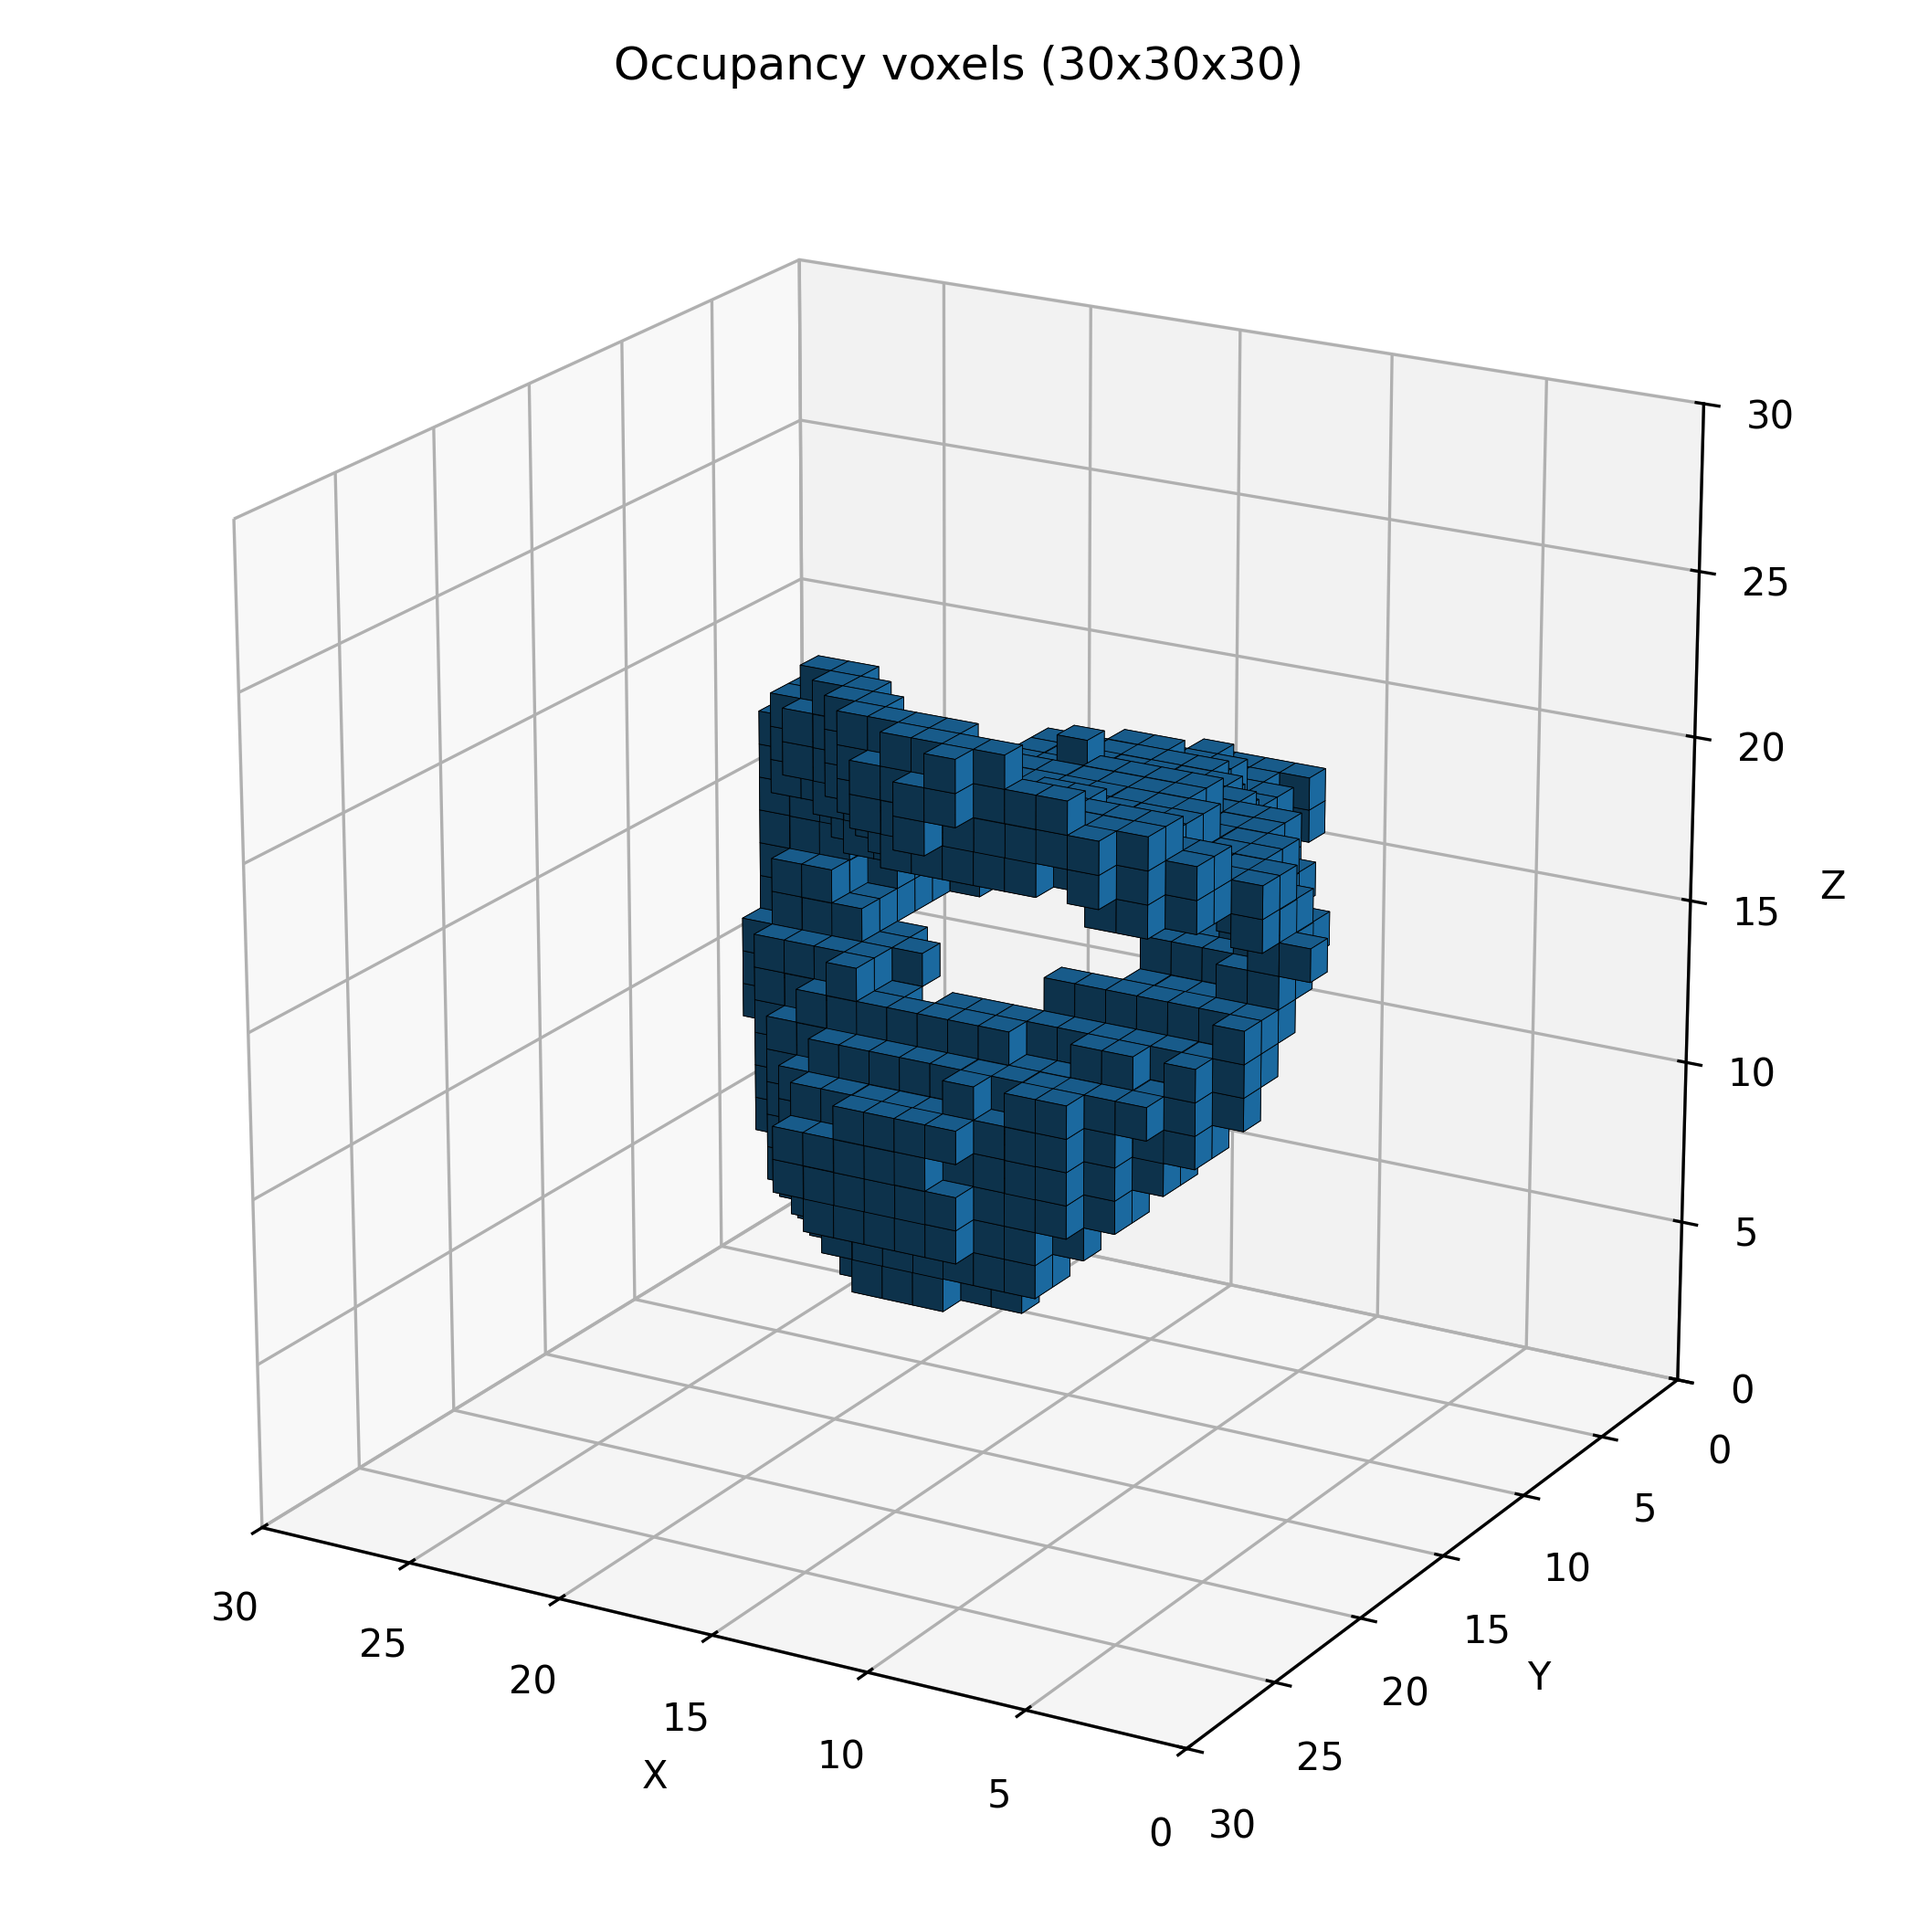
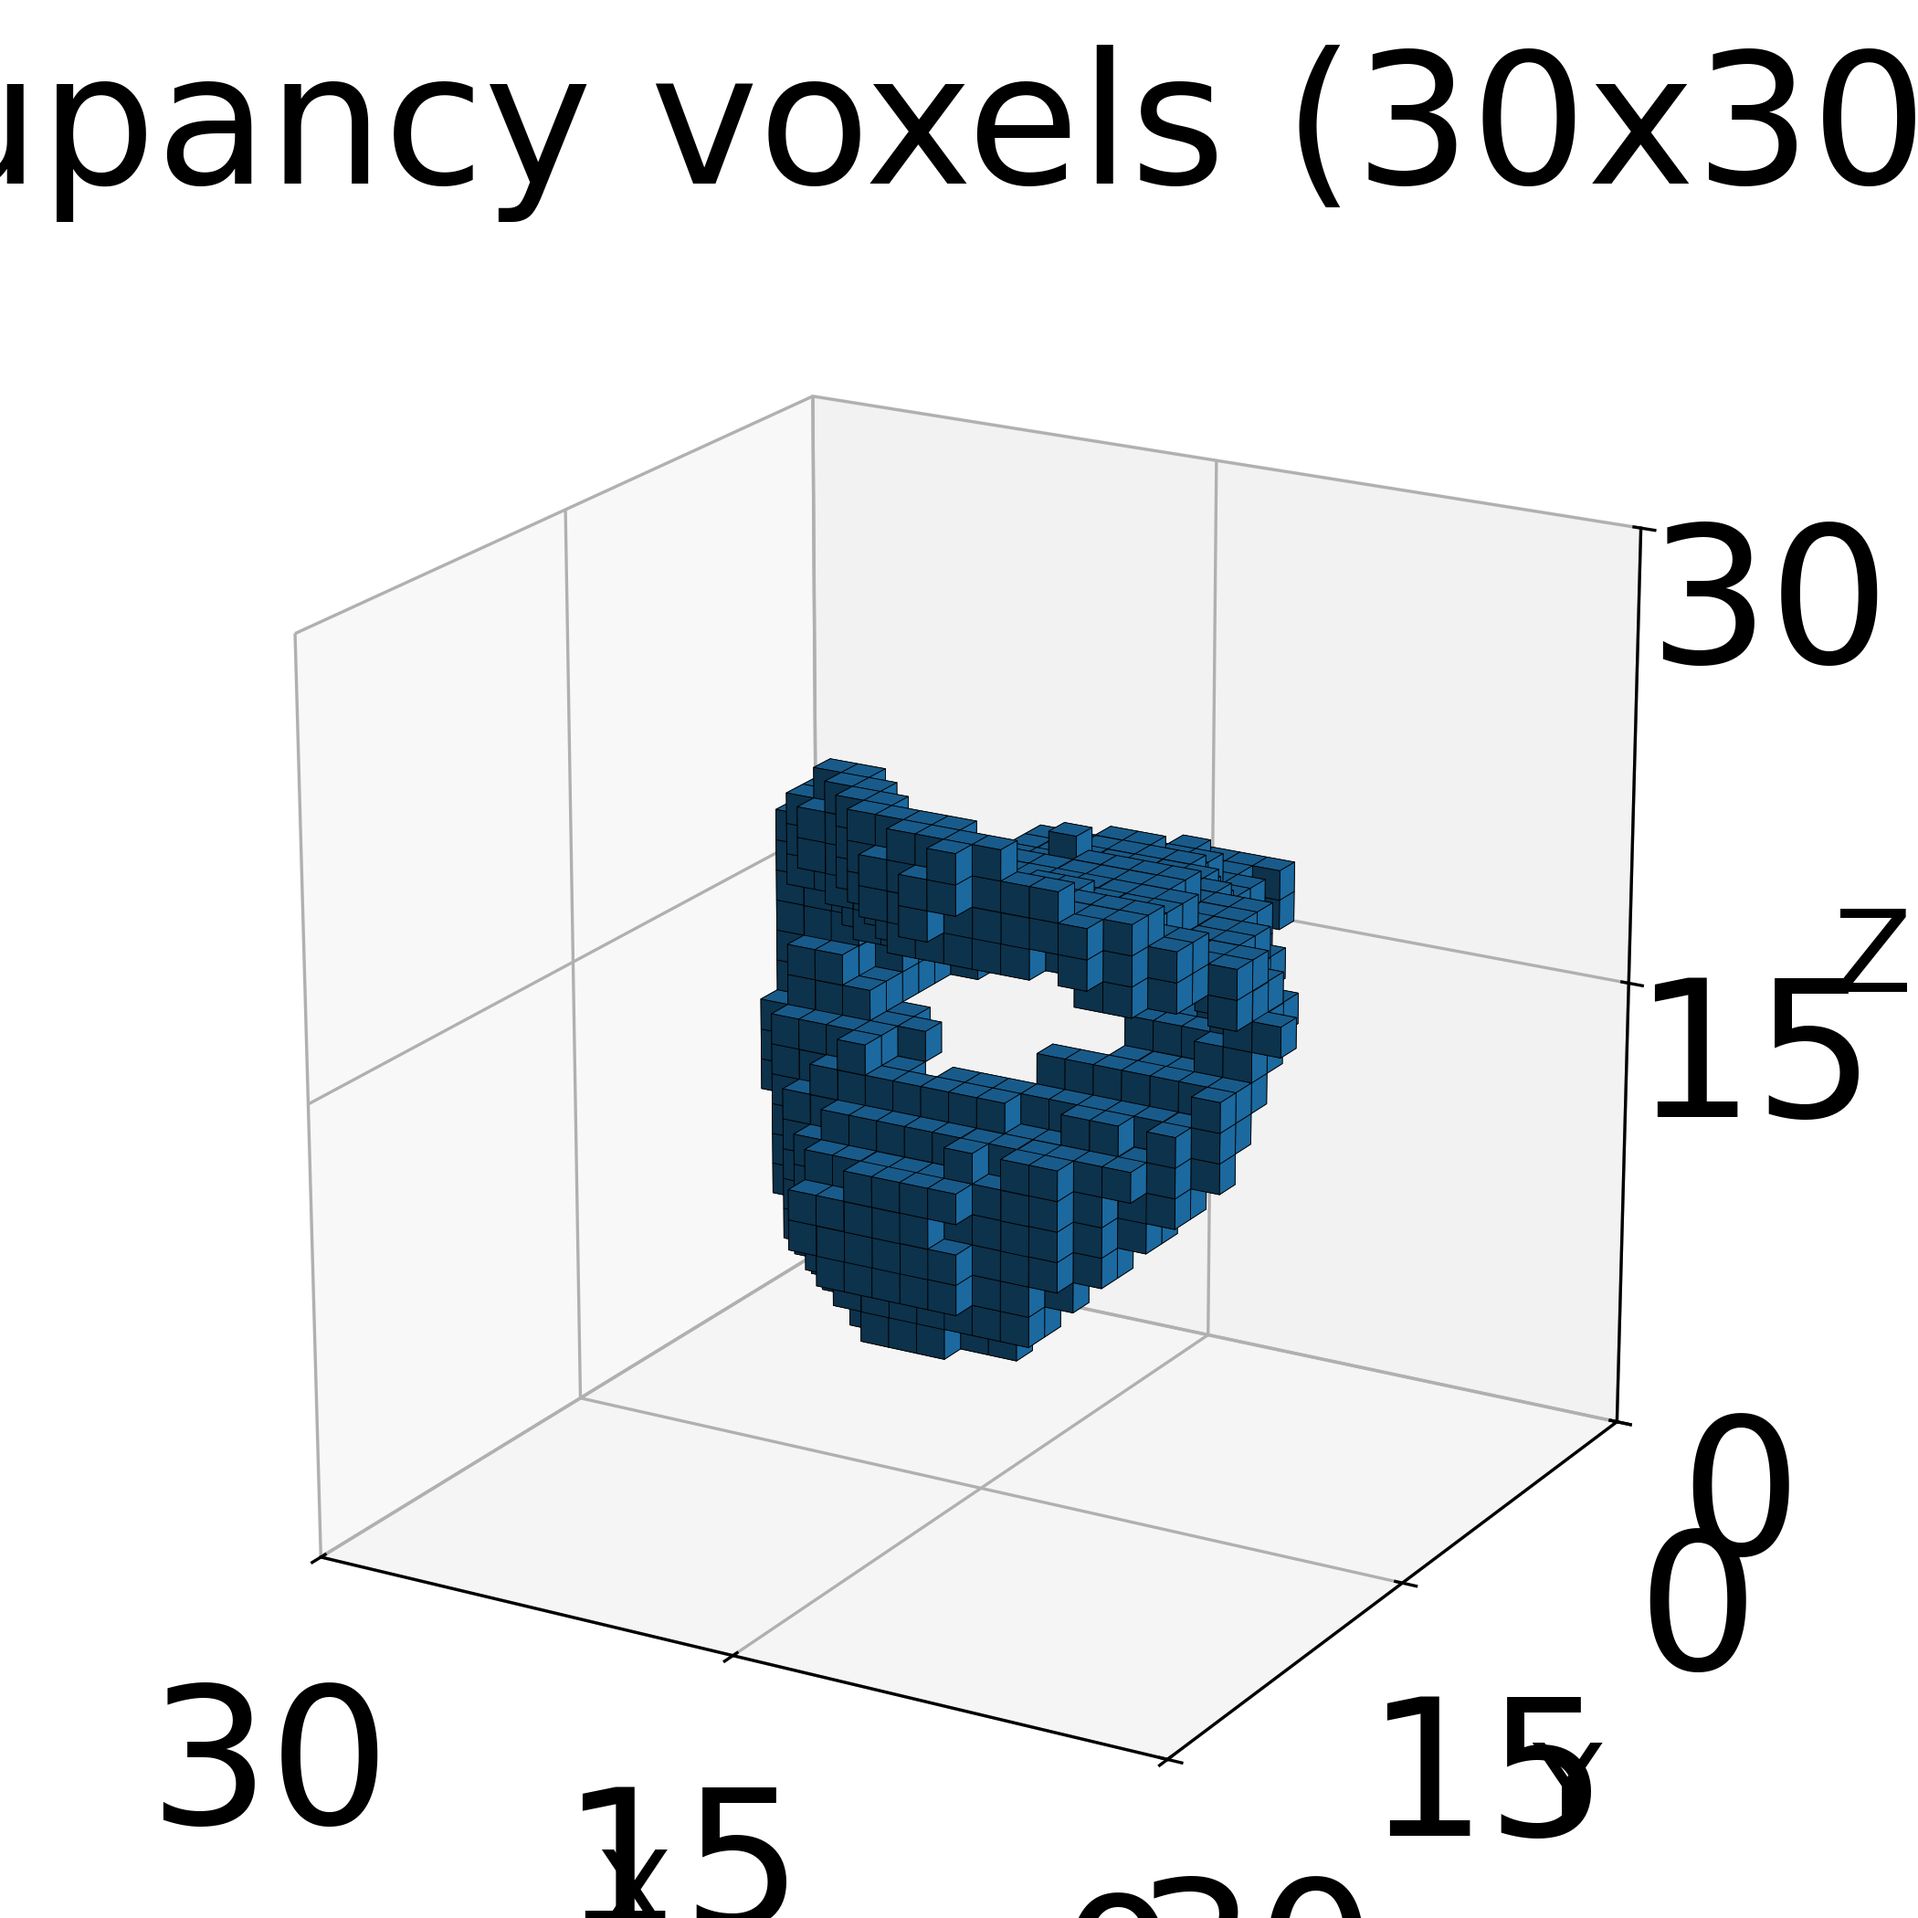
予稿用資料作成④

diff --git a/RealSense/makeTrainData.py b/RealSense/makeTrainData.py
@@ -86,10 +86,28 @@ def draw_surface_grid(ax, grid: int, lw: float = 0.2):
         ax.plot([0, 0], [i, i], [0, g], linewidth=lw)
         ax.plot([g, g], [i, i], [0, g], linewidth=lw)
 
-def setup_3d_axes(ax, grid: int, title: str):
-    ax.set_title(title)
+def setup_3d_axes(ax, grid: int, title: str,
+                  title_fs=48, label_fs=30, tick_fs=50,
+                  labelpad=22, tickpad=14, ticks=(0, 15, 30)):
+    ax.set_title(title, fontsize=title_fs, pad=18)
+
     ax.set_xlim(0, grid); ax.set_ylim(0, grid); ax.set_zlim(0, grid)
-    ax.set_xlabel("X"); ax.set_ylabel("Y"); ax.set_zlabel("Z")
+
+    # 軸ラベル（値と重ならないよう labelpad を大きく）
+    ax.set_xlabel("X", fontsize=label_fs, labelpad=labelpad)
+    ax.set_ylabel("Y", fontsize=label_fs, labelpad=labelpad)
+    ax.set_zlabel("Z", fontsize=label_fs, labelpad=labelpad)
+
+    # 目盛り数を減らす（fontsize=30でも重なりにくくする）
+    ax.set_xticks(list(ticks))
+    ax.set_yticks(list(ticks))
+    ax.set_zticks(list(ticks))
+
+    # 目盛り（tick label）を大きく＆軸から離す
+    ax.tick_params(axis="x", labelsize=tick_fs, pad=tickpad)
+    ax.tick_params(axis="y", labelsize=tick_fs, pad=tickpad)
+    ax.zaxis.set_tick_params(labelsize=tick_fs, pad=tickpad)
+
     try:
         ax.set_box_aspect((1, 1, 1))
     except Exception:
@@ -119,20 +137,26 @@ def save_voxel_only(occ: np.ndarray, grid: int, out_path: Path):
     plt.close(fig)
 
 def save_side_by_side(pts_grid: np.ndarray, occ: np.ndarray, grid: int, out_path: Path):
-    fig = plt.figure(figsize=(14, 7))
-    plt.rcParams["font.size"] = 25
+    fig = plt.figure(figsize=(24, 12))  # Word貼り付け用に大きめ
+
     ax1 = fig.add_subplot(121, projection="3d")
-    ax1.view_init(elev=20, azim=120)  # 例：既定の向きと逆側になるように調整（azimを180°側へ）
-    setup_3d_axes(ax1, grid, "Point cloud")
+    ax1.view_init(elev=20, azim=120)
+    setup_3d_axes(ax1, grid, "Point Cloud",
+                  title_fs=56, label_fs=45, tick_fs=45,
+                  labelpad=26, tickpad=16, ticks=(0, 10, 20, 30))
     draw_surface_grid(ax1, grid, lw=0.2)
     ax1.scatter(pts_grid[:, 0], pts_grid[:, 1], pts_grid[:, 2], s=1)
 
     ax2 = fig.add_subplot(122, projection="3d")
-    ax2.view_init(elev=20, azim=120)  # 例：既定の向きと逆側になるように調整（azimを180°側へ）
-    setup_3d_axes(ax2, grid, "Occupancy voxels")
+    ax2.view_init(elev=20, azim=120)
+    setup_3d_axes(ax2, grid, "Occupancy Voxels",
+                  title_fs=56, label_fs=45, tick_fs=45,
+                  labelpad=26, tickpad=16, ticks=(0, 10, 20, 30))
     ax2.voxels((occ > 0), edgecolor="k", linewidth=0.2)
 
-    fig.tight_layout()
+    # tight_layout だと3Dは詰まりやすいので、余白を固定で確保
+    fig.subplots_adjust(left=0.02, right=0.98, bottom=0.06, top=0.88, wspace=0.06)
+
     fig.savefig(out_path, dpi=300)
     plt.close(fig)
 
